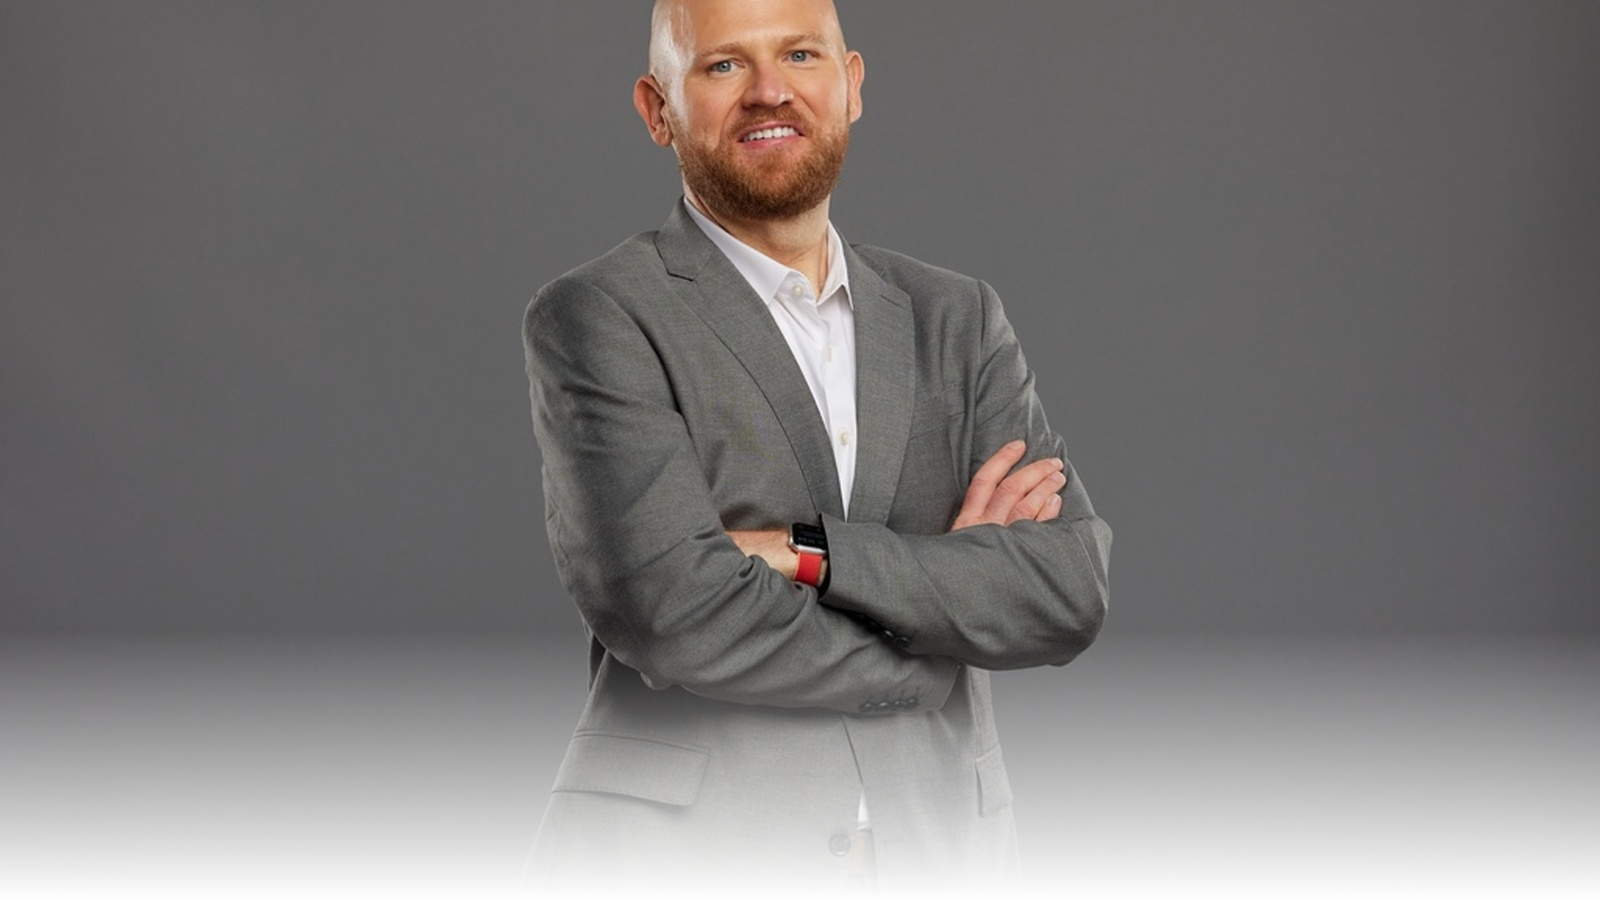
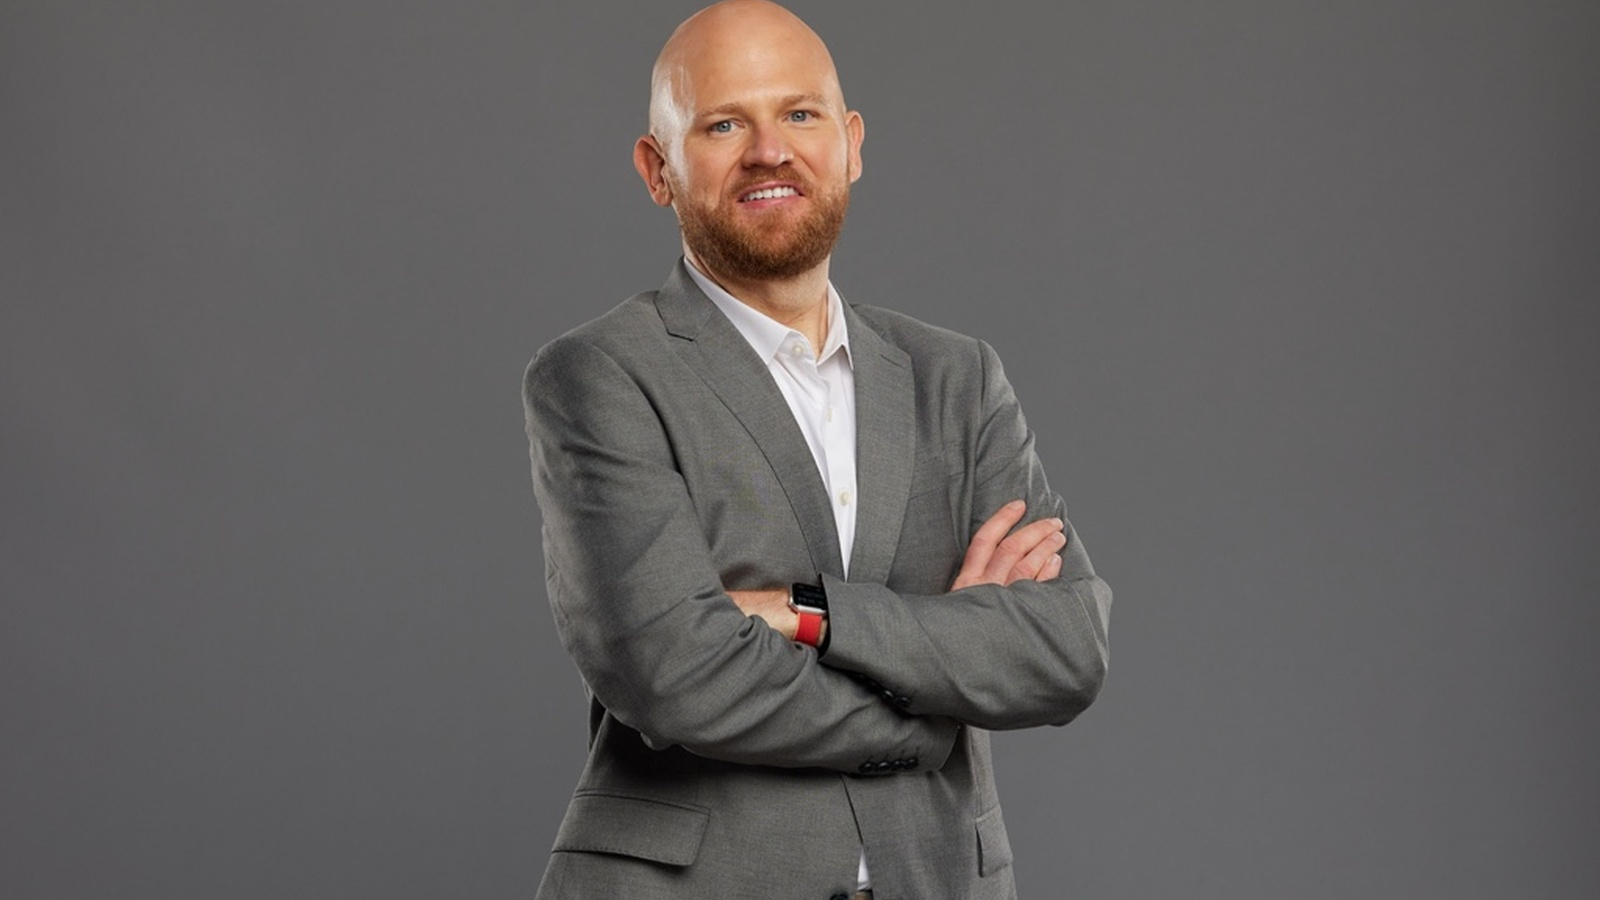
Add files via upload

diff --git a/css/styles.css b/css/styles.css
@@ -339,34 +339,32 @@ a:hover{ color:var(--accent); }
 .site-footer{border-top:1px solid var(--border); padding: 26px 0 40px; color:var(--muted); font-size:12px}
 
 
-/* Reseda-style hero overlap */
-.hero{ padding: 44px 0 26px; }
+/* Hero image: fill container (no white slab), plus subtle blend like Indiana module */
 .hero-media{
-  border-radius: var(--radius);
-  overflow: hidden;
-  box-shadow: var(--shadow);
   position: relative;
+  overflow: hidden;
+  border-radius: var(--radius);
+  background: transparent;
+  box-shadow: var(--shadow);
+  /* Ensure the container has a real height so the image can fill it */
+  aspect-ratio: 16 / 9;
 }
-.hero-media img{ width:100%; height:100%; object-fit: cover; display:block; }
-
-@media(min-width: 980px){
-  .hero-grid{ align-items: end; }
-  /* pull image up and slightly right for premium overlap feel */
-  .hero-media{
-    transform: translateY(-14px);
-  }
-  .hero-media::before{
-    content:"";
-    position:absolute; inset:-1px;
-    border-radius: var(--radius);
-    border: 1px solid rgba(11,18,32,.08);
-    pointer-events:none;
-  }
+.hero-media img{
+  width: 100%;
+  height: 100%;
+  display: block;
+  object-fit: cover;
+  object-position: center 18%;
 }
-/* bottom blend (if not already present) */
+/* Blend into page background */
 .hero-media::after{
   content:"";
   position:absolute; inset:0;
-  background: linear-gradient(to bottom, rgba(247,246,243,0) 62%, rgba(247,246,243,1) 100%);
+  background: linear-gradient(to bottom, rgba(247,246,243,0) 60%, rgba(247,246,243,1) 100%);
   pointer-events:none;
+}
+/* Desktop overlap polish */
+@media(min-width: 980px){
+  .hero-grid{ align-items: end; }
+  .hero-media{ transform: translateY(-18px) translateX(6px); }
 }
